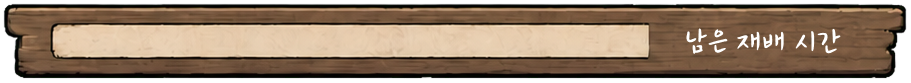
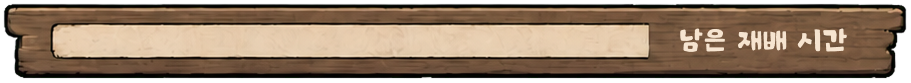
[Art] 2차 QA 에셋 교체와 전신·커서 추가

Changed region(s): [[0.7377, 0.3373, 0.9528, 0.6506]]

diff --git a/docs/submission/CREDITS.md b/docs/submission/CREDITS.md
@@ -38,7 +38,10 @@
 | `assets/source/phase-b/sheets/b4_button_components_sheet_chroma.png` | B4 선택 기능·수량 조절 버튼 원본 시트 | AI 생성 | GPT Image (Codex 내장, 모델명 비공개) | `IMG-B-010` 전문 참조 | 해당 없음 (AI 생성) |
 | `assets/source/phase-b/sheets/b4_button_components_sheet_chroma_v2.png` | B4 빼기·더하기 기호 밝은색 보정본 | AI 편집 | GPT Image (Codex 내장, 모델명 비공개) | `IMG-B-012` 전문 참조 | 해당 없음 (AI 생성) |
 | `assets/source/phase-b/sheets/b5_closed_sliding_paper_doors_1920x1080.png` | B5 닫힌 창호지 미닫이문 단독 배경 | AI 생성 + 직접 리사이즈 | GPT Image (Codex 내장, 모델명 비공개) + System.Drawing | `IMG-B-011` 전문 참조 | 해당 없음 (AI 생성) |
+| `assets/source/phase-b/ui_cursor_chroma.png` | 나무 화살표형 마우스 커서 크로마키 원본 | AI 생성 | GPT Image (Codex 내장, 모델명 비공개) | `IMG-B-015` 전문 참조 | 해당 없음 (AI 생성) |
+| `assets/source/phase-b/ui_cursor_click_scratch_chroma.png` | 마우스 클릭 시 표시할 나무 긁힘 효과 크로마키 원본 | AI 생성 | GPT Image (Codex 내장, 모델명 비공개) | `IMG-B-016` 전문 참조 | 해당 없음 (AI 생성) |
 | `assets/final/ui/*.png` (B1~B5) | B 시트에서 분리한 UI 부품 17종. `button_selected`는 v8의 네 기능 버튼이 같은 기본 그림을 위치만 옮겨 선택을 표시하므로 옮기지 않았다 | AI 생성 + 직접 분리·투명화 | GPT Image (Codex 내장, 모델명 비공개) + Figma | `IMG-B-005`~`IMG-B-013` 참조 | 해당 없음 (AI 생성) |
+| `assets/final/ui/{cursor,cursor_click_scratch}.png` | 게임 전역 마우스 커서와 클릭 위치의 짧은 나무 긁힘 효과 | AI 생성 후 프로젝트 책임자가 Figma에서 누끼·축소·최종 편집 | GPT Image (Codex 내장, 모델명 비공개) + Figma | `IMG-B-015`·`IMG-B-016` 전문 참조 | 해당 없음 (AI 생성) |
 | `assets/final/ui/quickslot_count_badge.png` | 투척 퀵슬롯·회복 칸 우하단 공용 수량 배지 | 기존 AI 생성 내부 에셋에서 직접 분리·편집 | Figma | `assets/final/ui/item_slot_badge.png`의 배지 형태에서 분리 제작. 원본은 `IMG-B-006`~`IMG-B-008` 참조, 별도 생성 프롬프트 없음 | 해당 없음 (AI 생성) |
 | `assets/final/ui/coin.png` | 가격·총액·보유량 옆 공용 엽전 아이콘 | 기존 프로젝트 엽전 형태를 프로젝트 책임자가 직접 편집 | Figma | 프로젝트 내부 UI 엽전 형태 참조. 별도 생성 프롬프트 없음 | 해당 없음 (내부 제작) |
 | `assets/final/ui/*.png` (A1) | HUD 시트에서 분리한 A1 UI 9종과 숲 앞 겹 1종. 시트의 행동 안내는 글자만 띄우기로 해서 옮기지 않았다 | AI 생성 + 직접 분리·투명화 | GPT Image (Codex 내장, 모델명 비공개) + Pillow | `IMG-B-001`·`IMG-B-002` 참조 | 해당 없음 (AI 생성) |
@@ -55,7 +58,8 @@
 | `assets/final/icon/{fiery,mushy,slippery,sticky}.png` | C3 원본에서 분리·투명화한 작물 속성 아이콘 4종 | AI 생성 + 직접 분리·투명화 | GPT Image (Codex 내장, 모델명 비공개) + 이미지 편집 도구 | 아트 디렉션 12.4.3절 전문 참조 | 해당 없음 (AI 생성) |
 | `assets/source/phase-f/concept_lineup.png` | 플레이어·영순·만복·이장·금례 5인의 최종 캐릭터 디자인 기준 | AI 생성 + 직접 선별·합성 | NovelAI | 아트 디렉션 12.6절 태그 블록 참조 | 해당 없음 (AI 생성) |
 | `assets/source/phase-f/crops/{player,yeongsun,manbok,village_head,geumrye}.png` | 후속 Vibe Transfer에 쓰는 인물별 컨셉아트 크롭 5종 | AI 생성 + 직접 크롭 | NovelAI + 이미지 편집 도구 | `concept_lineup.png`에서 분리 | 해당 없음 (AI 생성) |
-| `assets/final/portrait/{player,yeongsun,manbok,village_head,geumrye}.png` | A4 대화·조우 결과에 공용하는 플레이어·주민 초상화 5종. 공통 1080px 높이와 투명 여백으로 인물간 상대 크기를 유지 | 기존 AI 생성 컨셉아트를 프로젝트 책임자가 Figma에서 직접 상반신 크롭·투명화하고 QA 후 여백·배치를 재조정 | Figma | `assets/source/phase-f/crops/` 5종에서 파생 | 해당 없음 (AI 생성) |
+| `assets/final/portrait/{player,yeongsun,manbok,village_head,geumrye}.png` | A4 대화·조우 결과에 공용하는 플레이어·주민 초상화 5종. 공통 1080px 높이와 투명 여백으로 인물간 상대 크기를 유지. 영순은 2차 QA에서 최종 교체 | 기존 AI 생성 컨셉아트를 프로젝트 책임자가 Figma에서 직접 상반신 크롭·투명화하고 QA 후 여백·배치를 재조정 | Figma | `assets/source/phase-f/crops/` 5종에서 파생 | 해당 없음 (AI 생성) |
+| `assets/final/portrait/{player,yeongsun,manbok,village_head,geumrye}_fullbody.png` | 인게임 화면에서 별도로 사용할 플레이어·주민 전신 일러스트 5종. 높이 601px로 통일 | 기존 AI 생성 컨셉아트를 프로젝트 책임자가 Figma에서 직접 투명화·리사이즈 | Figma | `assets/source/phase-f/crops/` 5종에서 파생. 별도 생성 프롬프트 없음 | 해당 없음 (AI 생성) |
 | `assets/source/phase-a/A4_precombat_dialogue_mockup_v1 (구).png` | A4 전투 전 대화 UI의 폐기된 크로마키 배치 원본 | AI 생성 + 크로마 보정 | GPT Image (Codex 내장, 모델명 비공개) + Pillow | `IMG-A-013` 전문 참조 | 해당 없음 (AI 생성) |
 | `assets/source/phase-a/A4_precombat_dialogue_mockup_v2.png` | 실제 구현 배치에 맞춘 A4 최종 목업. LD 일러스트와 필드 딤은 합성 전이라 생략 | 기존 AI 생성 UI 부품을 프로젝트 책임자가 직접 배치 | Figma | A4 v1과 기존 B단계 UI 부품을 참고해 직접 제작 | 해당 없음 (내부 제작) |
 | `assets/source/phase-b/sheets/b6_choice_balloon_sheet_chroma.png` | A4 선택지 말풍선 원본 시트 | AI 생성 | GPT Image (Codex 내장, 모델명 비공개) | `IMG-B-014` 전문 참조 | 해당 없음 (AI 생성) |
@@ -74,6 +78,7 @@
 | `assets/final/ui/day_start_scroll.png` | 2~5일차 시작 화면의 농장 일지 두루마리 | AI 생성 후 프로젝트 책임자가 Figma에서 누끼·최종 편집 | GPT Image (Codex 내장, 모델명 비공개) + Figma | `IMG-G-003` 전문 참조 | 해당 없음 (AI 생성) |
 | `assets/final/ui/ending_record_board.png` | 엔딩 기록문을 표시하는 대자보 게시판 | AI 생성 후 프로젝트 책임자가 Figma에서 누끼·최종 편집 | GPT Image (Codex 내장, 모델명 비공개) + Figma | `IMG-G-004` 전문 참조 | 해당 없음 (AI 생성) |
 | `assets/final/ui/player_status_card.png` | 재배·습격 하단 좌측 플레이어 상태 카드 | 기존 A1 HUD 부품을 프로젝트 책임자가 QA 후 재조정·재저장 | Figma | `IMG-B-001` 참조. 별도 생성 프롬프트 없음 | 해당 없음 (AI 생성) |
+| `assets/final/ui/{farming_timer,recovery_slot}.png` | 2차 QA에서 교체한 남은 재배 시간 타이머와 Q 조작 표시 회복 칸 | 기존 A1 HUD 부품을 프로젝트 책임자가 직접 수정·재저장 | Figma | `IMG-B-001` 참조. 별도 생성 프롬프트 없음 | 해당 없음 (AI 생성) |
 | `assets/final/logo/title.png` | 타이틀 로고 최종본 | 프로젝트 책임자 제공 완성본 | 프로젝트 책임자 작업(제작 도구 미기재) | 프로젝트 책임자 제공 파일 | 해당 없음 (내부 제작) |
 | `assets/source/phase-a/A0_title_screen_mockup.png` | 최종 배경·로고·공용 버튼·설정 버튼의 타이틀 화면 배치 목업 | 기존 최종 에셋을 프로젝트 책임자가 직접 배치 | 프로젝트 책임자 작업(제작 도구 미기재) | 프로젝트 책임자 제공 파일 `Slide 16_9 - 2 (1).png` | 해당 없음 (내부 제작) |
 | `assets/source/phase-a/A0_title_screen_mockup_v2.png`, `A1_daytime_gameplay_mockup_v6.png`, `A2_nighttime_gameplay_mockup_v2.png` | 타이틀·재배·습격 화면의 2026-08-09 QA 최신 배치 목업 | 기존 프로젝트 에셋을 프로젝트 책임자가 직접 배치 | Figma | 프로젝트 책임자 제공 완성본. 별도 생성 프롬프트 없음 | 해당 없음 (내부 제작) |
@@ -81,6 +86,7 @@
 | `assets/source/phase-a/A5_day_start_*_mockup_v1.png` | 1일차와 2~5일차 시작 화면의 배치 전용 임시 아트 목업 2장 | 기존 프로젝트 에셋과 임시 도형을 프로젝트 책임자가 직접 배치 | Figma | 배치만 참고. 최종 배경·두루마리는 `bg_day_start.png`·`day_start_scroll.png`로 별도 반영 | 해당 없음 (내부 제작) |
 | `assets/source/phase-a/A6_encounter_result_mockup_v1.png`, `A7_night_result_mockup_v1.png` | 창호지 셔터 공용 배경을 사용한 조우 결과·밤 결과 최신 배치 목업 | 기존 프로젝트 에셋을 프로젝트 책임자가 직접 배치 | Figma | 프로젝트 책임자 제공 완성본. 별도 생성 프롬프트 없음 | 해당 없음 (내부 제작) |
 | `assets/source/phase-a/A8_ending_mockup_v1.png` | 엔딩 화면의 배치 전용 임시 아트 목업 | 기존 프로젝트 에셋과 임시 도형을 프로젝트 책임자가 직접 배치 | Figma | 배치만 참고. 최종 게시판·컷신은 `ending_record_board.png`와 컷신 6종으로 별도 반영 | 해당 없음 (내부 제작) |
+| `assets/source/phase-a/A9_run_failed_mockup_v1.png` | 검은 배경 대신 전역 폴백 컷신을 사용하는 런 실패 화면 배치 목업 | 기존 런 실패 화면과 `assets/final/cutscene/global_fallback.png`를 프로젝트 책임자가 직접 합성 | Figma | 개발 배치 참고용. 별도 생성 프롬프트 없음 | 해당 없음 (내부 제작) |
 
 ## 사운드 · BGM
 
@@ -1428,6 +1434,40 @@ characters, extra frames, duplicate variants, glossy gradients, logo, watermark,
 
 대사창은 `panel_border`·`panel_texture`, 이름판과 선택지 버튼은 기존 `button_normal`·
 `button_disabled`를 재사용하므로 새로 채택한 A4 고정 UI 그림은 말풍선 한 장뿐이다.
+
+### IMG-B-015 — 나무 화살표형 마우스 커서
+
+참조 이미지는 `assets/final/ui/button_normal.png` 한 장이며 화풍 기준으로만 사용했다.
+
+```text
+Use case: stylized-concept
+Asset type: custom mouse cursor for a 1920x1080 browser game
+Input images: Image 1 is a style reference only—the approved wooden UI button. Match its thick dark outline, flat two-step shading, warm muted brown wood, clean interior fills, and slight handmade asymmetry. Do not copy the rectangular button.
+Primary request: create one compact arrow-shaped mouse cursor carved from a small splinter of wood, with a sharp click point at the extreme top-left and the body extending diagonally toward the bottom-right. Strong simple silhouette that stays readable when reduced to about 32x32 pixels.
+Composition/framing: one cursor only, centered with generous padding, no cast shadow.
+Scene/backdrop: perfectly flat solid #00ff00 chroma-key background for background removal; one uniform color with no gradient, texture, floor, reflection, or lighting variation.
+Constraints: the click tip must be the top-left-most opaque point and align with a 2,2 hotspot; crisp edges; use no #00ff00 in the cursor; no text, numbers, logo, watermark, extra object, metal, leaf, rope, ornament, photorealism, 3D bevel, glossy highlight, dense wood grain, hatching, or scratchy repeated linework.
+```
+
+프로젝트 책임자가 Figma에서 누끼·축소하고, 최종 PNG의 불투명 영역이 `(2, 2)`에서
+시작하도록 정렬해 `assets/final/ui/cursor.png`로 저장했다.
+
+### IMG-B-016 — 마우스 클릭 나무 긁힘 효과
+
+참조 이미지는 `assets/final/ui/button_normal.png` 한 장이며 화풍 기준으로만 사용했다.
+
+```text
+Use case: stylized-concept
+Asset type: tiny click-feedback overlay for a custom wooden mouse cursor
+Input images: Image 1 is a style reference only—the approved wooden UI button. Match its thick dark brown line, flat two-step shading, warm muted wood palette, clean shapes, and slight handmade asymmetry.
+Primary request: create one very small cluster of exactly three short fresh gouge marks scratched into wood, arranged like a quick click impact. Each mark is a tapered dark-brown cut with a narrow pale raw-wood edge. The cluster must remain legible when reduced to about 40x40 pixels and briefly shown at the click point.
+Composition/framing: exactly three isolated short marks, close together, centered, compact radial/diagonal arrangement, generous padding; no wooden plank or surface behind them; no cursor arrow.
+Scene/backdrop: perfectly flat solid #00ff00 chroma-key background for background removal; one uniform color with no gradient, texture, floor, reflection, or lighting variation.
+Constraints: crisp edges; use no #00ff00 in the marks; no cast shadow, glow, particles, sparks, dust, splinters, text, numbers, logo, watermark, extra objects, photorealism, 3D bevel, glossy highlight, dense grain, or repeated hatching.
+```
+
+프로젝트 책임자가 생성 결과에서 사용할 긁힘 한 줄을 선별해 Figma에서 누끼·축소하고
+`assets/final/ui/cursor_click_scratch.png`로 저장했다.
 
 ### IMG-E-001 — 탑다운 야생동물 필드 스프라이트 시트
 
